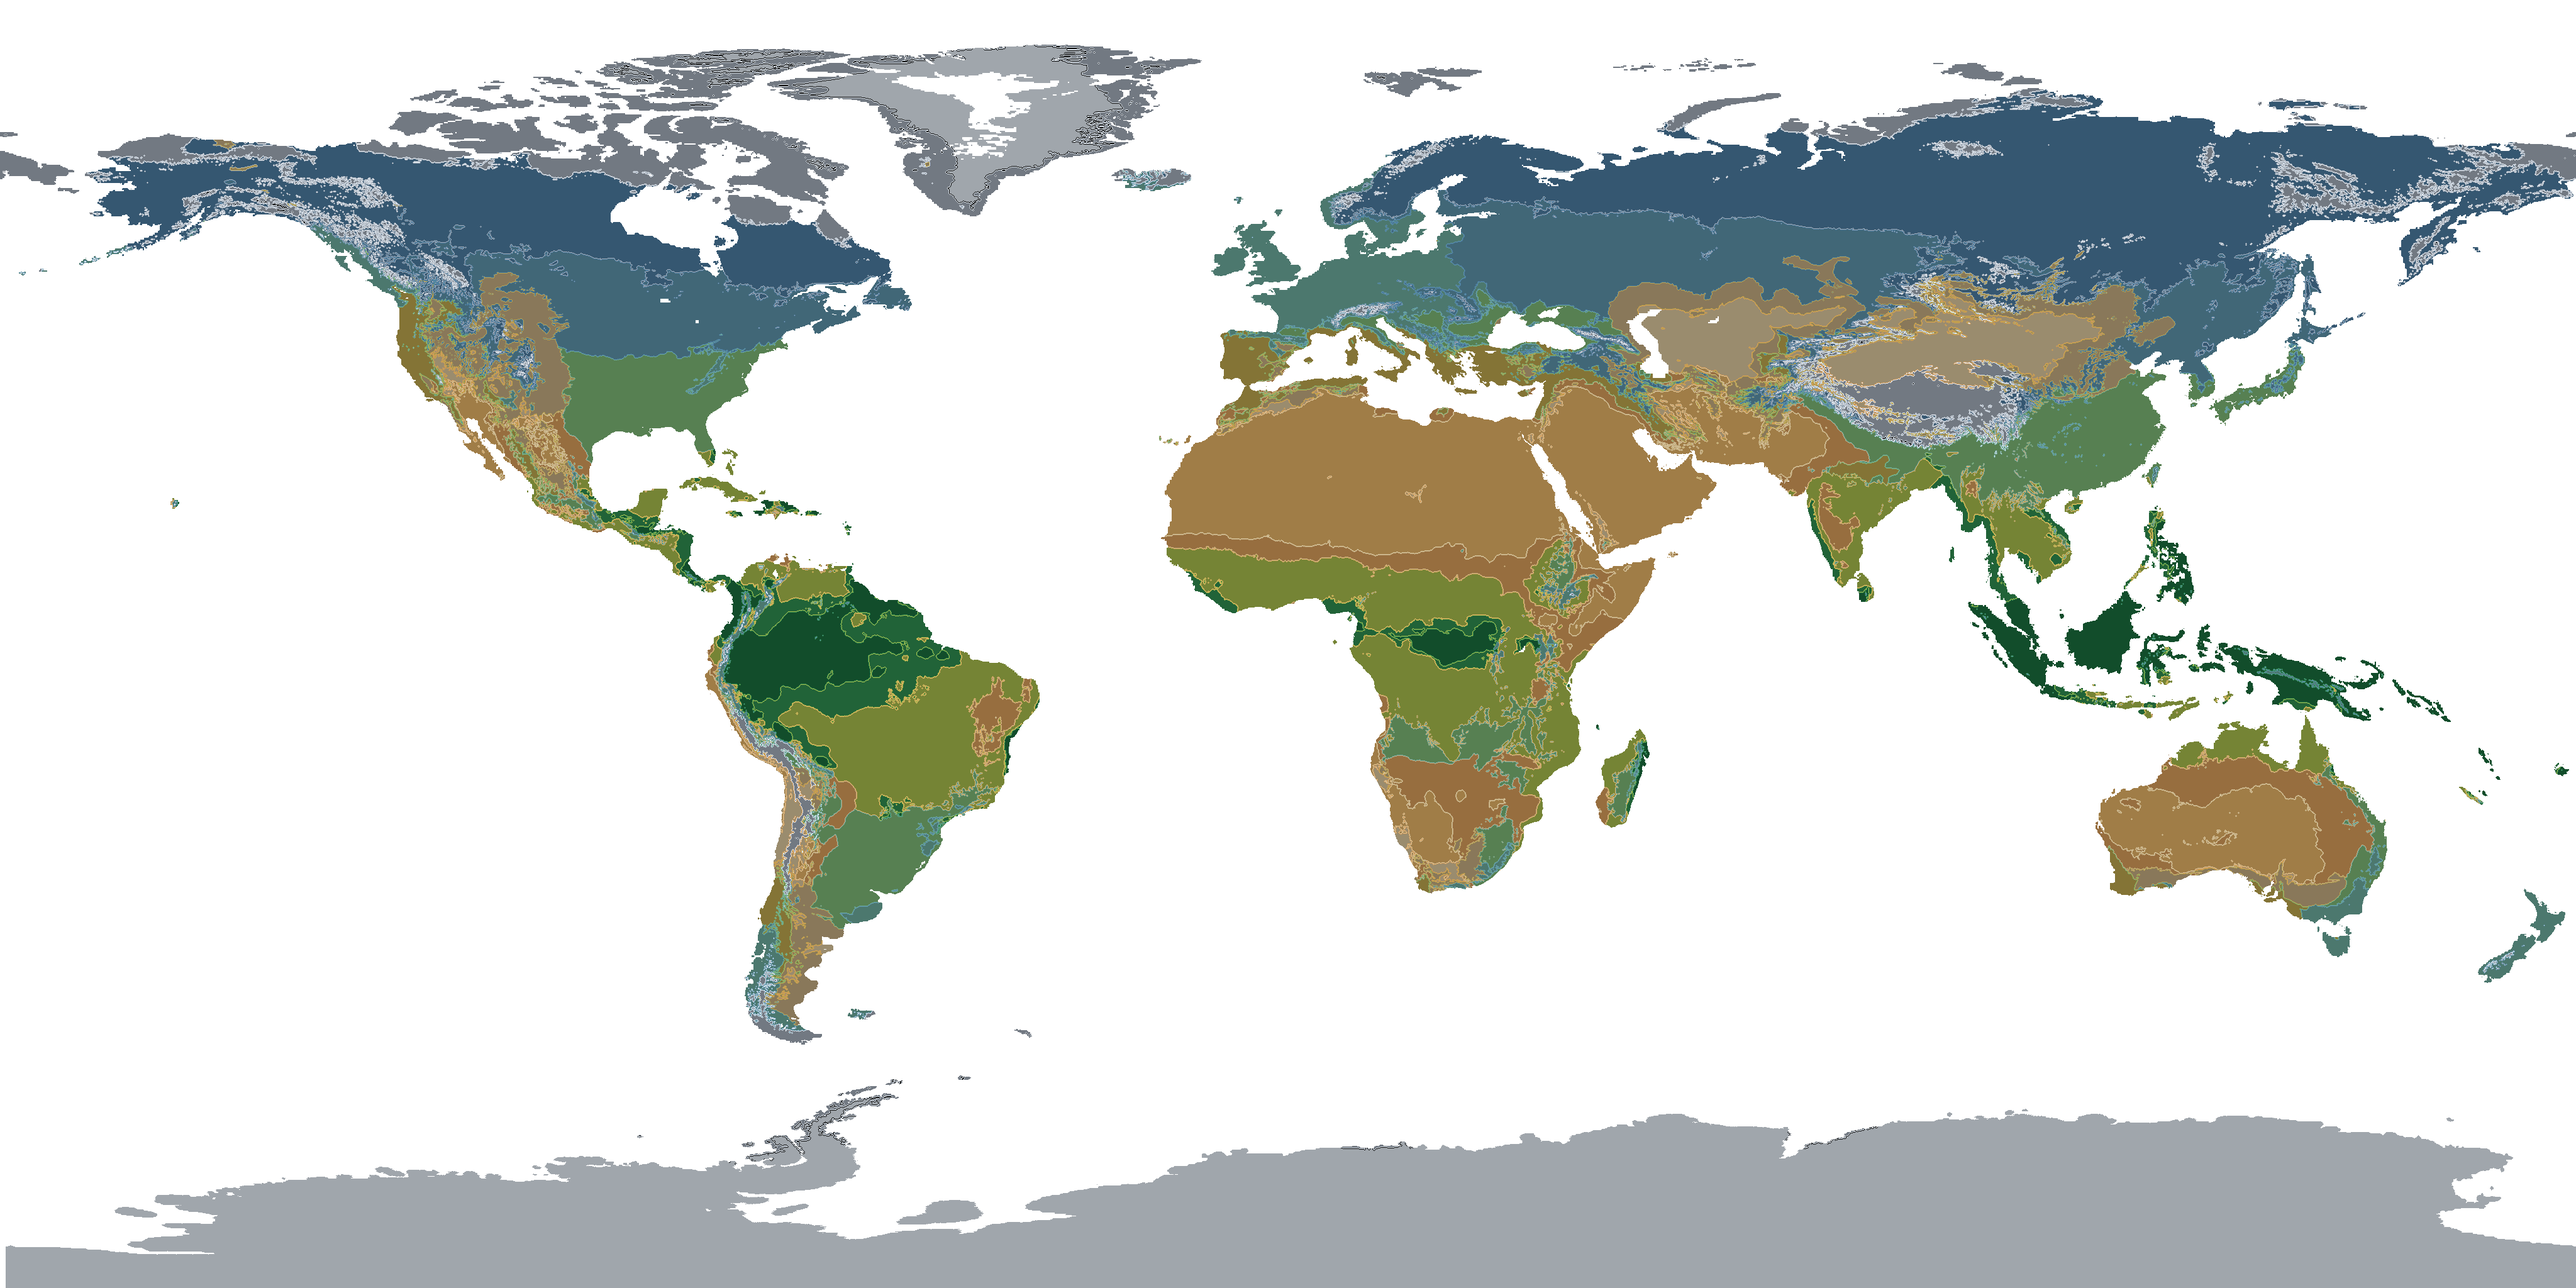
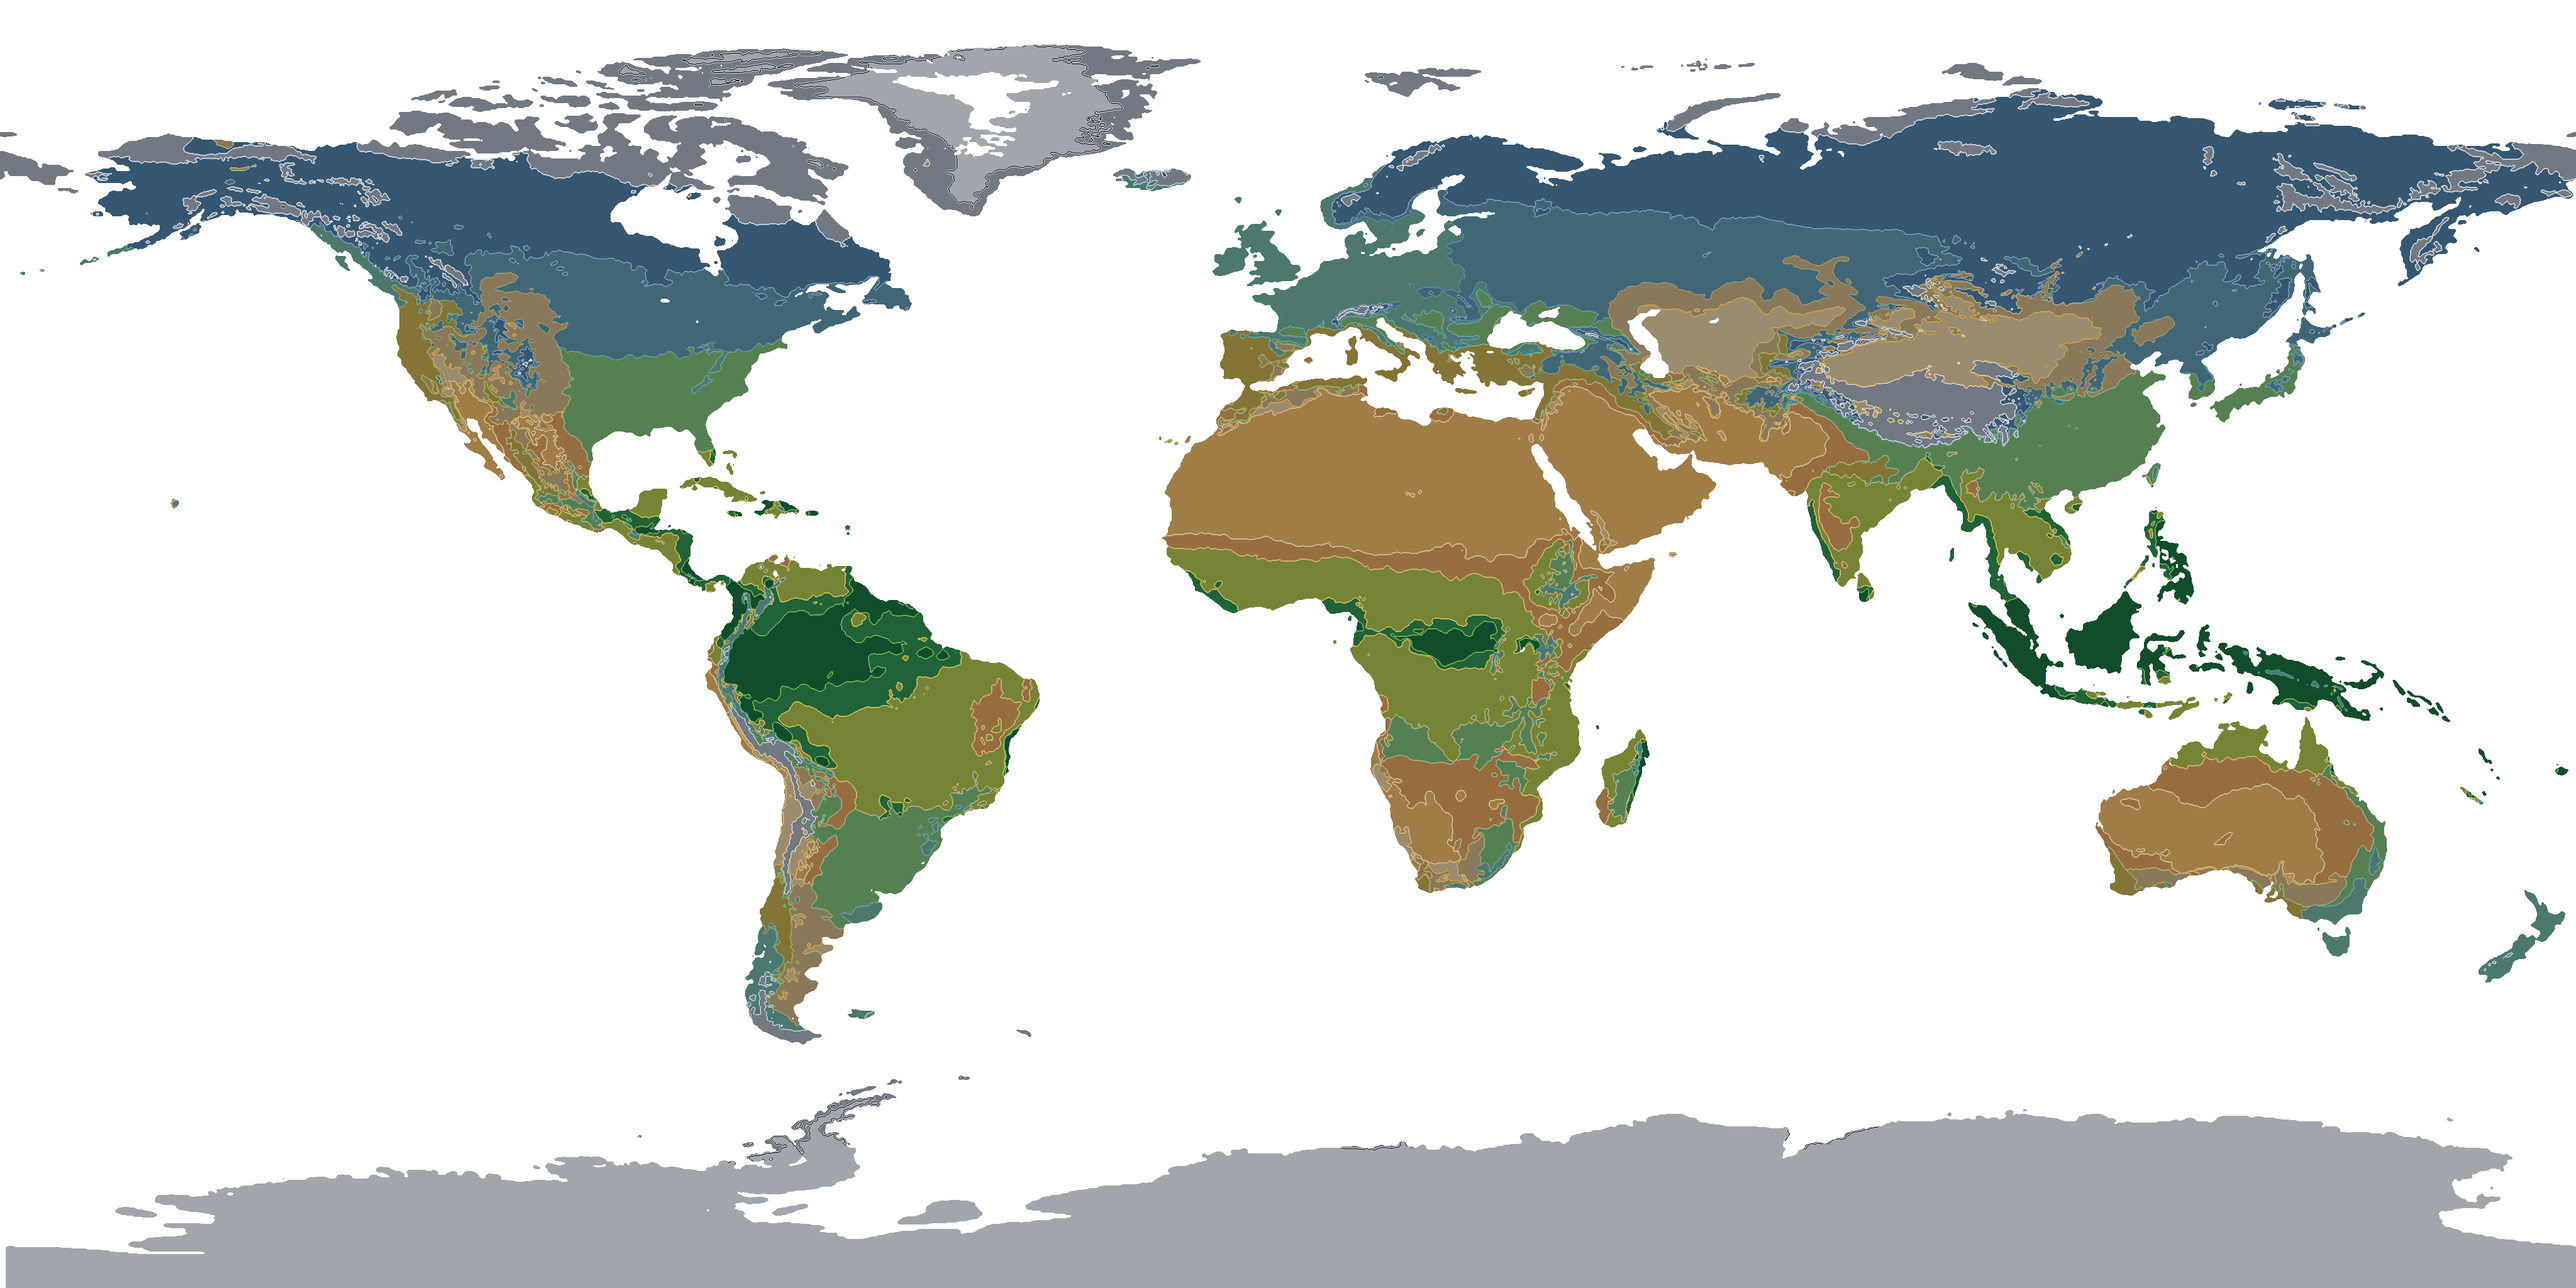
polish(climate): 展示图加 5×5 中值滤波，去掉交错带上的碎斑；build 2026-11-10-AM

diff --git a/index.html b/index.html
@@ -3,7 +3,7 @@
 <head>
 <meta charset="utf-8">
 <meta name="viewport" content="width=device-width, initial-scale=1, viewport-fit=cover">
-<meta name="build" content="2026-11-10-AL">
+<meta name="build" content="2026-11-10-AM">
 <link rel="icon" type="image/png" href="assets/favicon.png">
 <link rel="apple-touch-icon" href="assets/favicon.png">
 <!-- OBS 是图片/音频/贴图的唯一源站。提早点亮 DNS 和 TLS：
